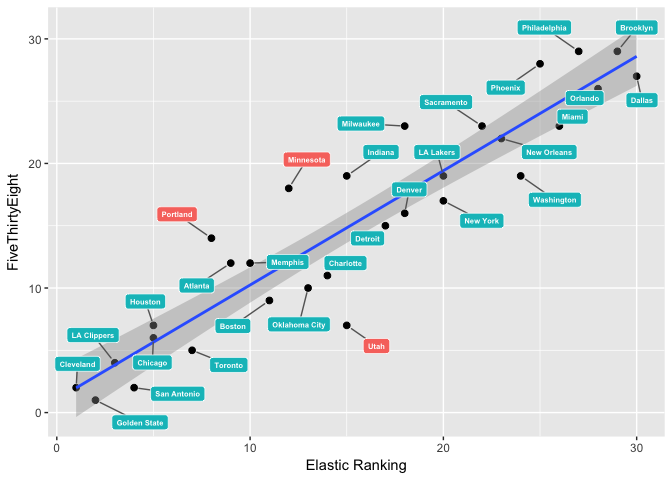
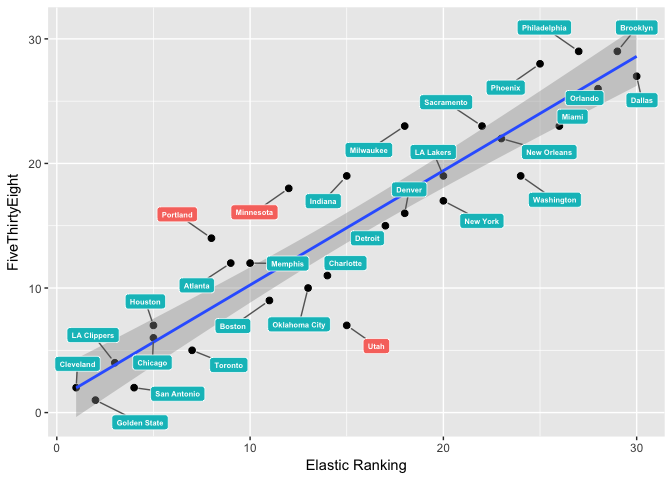
updating readme

diff --git a/readme.md b/readme.md
@@ -30,7 +30,7 @@ At a high level, the model depends on three overall factors:
 -   How the team looks on paper. This is measured by the roster composition of "player archetypes."
 -   Circumstances -- e.g., traveling, rest days, home-court advantage.
 
-The team rankings produced by this model mainly agree with other prediction models (such as FiveThirtyEight) -- at least when it comes to identifying the strong teams and the weak teams (the "tail teams"). There are some interesting differences, such as different rankings of the Atlanta Hawks, which I will analyze later in this post.
+The team rankings produced by this model mainly agree with other prediction models (such as FiveThirtyEight) -- at least when it comes to identifying the strong teams and the weak teams (the "tail teams"). There are some interesting differences, such as different rankings of the Portland Trailblazers, which I will analyze later in this post.
 
 Back testing for the 2015-2016 season showed promising results (see more details below), although I have not done any historical benchmark testing against other models. Time will be the judge.
 
@@ -233,7 +233,7 @@ ggplot(all_rankings, aes(x=elastic_ranking, y=FiveThirtyEight)) +
 
 The table shows that the elastic rankings generally agree with FiveThirtyEight -- at least when it comes to the "tail teams." For example, all rankings agree that Golden State, Cleveland and the Clippers will have strong seasons, while Philadelphia and New Orleans will struggle to win games.
 
-But what about Atlanta? The elastic model ranks Atlanta ninth in terms of overall win percentage, while FiveThirtyEight ranks Atlanta at number 12 (as of 2016-11-27). To understand why the elastic model is doing this, we can decompose the predictions into three parts:
+But what about Portland? The elastic model ranks Portland seventh in terms of season win percentage, while FiveThirtyEight ranks Portland at number 13 (as of 2016-11-27). To understand why the elastic model is doing this, we can decompose the predictions into three parts:
 
 -   Roster -- archetype allocation deficits/surpluses. These are the variables labeled "share\_minutes\_cluster\_XX" described above. This group of variables reflects the quality of the roster.
 -   Performance -- e.g., win percentages, previous match-ups.
@@ -267,7 +267,7 @@ read.csv(f, stringsAsFactors = FALSE) %>%
 
 The bars show the contribution from each part of the model. As expected, circumstances do not affect the overall prediction for the entire season as most teams have similarly taxing schedules. However, contributions from performance (weighted winning percentages) and roster (surplus of important archetypes) vary considerably.
 
-First, let's take a look at Atlanta: the model thinks that Atlanta’s roster is just above average (relative to its opponents). However, Atlanta has been winning a high percentage of their games lately -- they even beat Cleveland -- and thus we get a significant positive contribution from this (recall that the wins are weighted by the opponents [CARM-ELO](http://projects.fivethirtyeight.com/2017-nba-predictions/) rating). This essentially means that if Atlanta stops winning, the elastic model is going to downgrade Atlanta since the favorable view is mainly based on the performance and not its roster.
+First, let's take a look at Portland: the model likes Portland because it thinks its roster is strong relative to its opponents' -- although the performance has not been stellar (recall that the wins are weighted by the opponents [CARM-ELO](http://projects.fivethirtyeight.com/2017-nba-predictions/) rating).
 
 Next, let's look at Cleveland and Golden State. The model ranks these two teams at the top, both in terms of rosters and performance. In fact, my playoff simulations have these two teams meeting again in the finals and going to seven games (more on that in a later post).
 
@@ -369,4 +369,4 @@ Currently, the model ranks teams by predicting win rates. This means that, holdi
 
 ### Uncertainty
 
-As stated above, the model uses a deterministic approach to decide the winner. If the win-probability estimated by the logistic regression model exceeds 50% for a given team, that team is chosen as the winner. As a result, the model can be somewhat extreme in its predictions. For example, the model believes that Golden State will win almost every future game -- when in reality they'l' likely lose some unexpected games. Having a better sense of uncertainty would could create more realistic win rate predictions for tail teams.
+As stated above, the model uses a deterministic approach to decide the winner. If the win-probability estimated by the logistic regression model exceeds 50% for a given team, that team is chosen as the winner. As a result, the model can be somewhat extreme in its predictions. For example, the model believes that Golden State will win almost every future game -- when in reality they'll' likely lose some unexpected games. Having a better sense of uncertainty would could create more realistic win rate predictions for tail teams.
